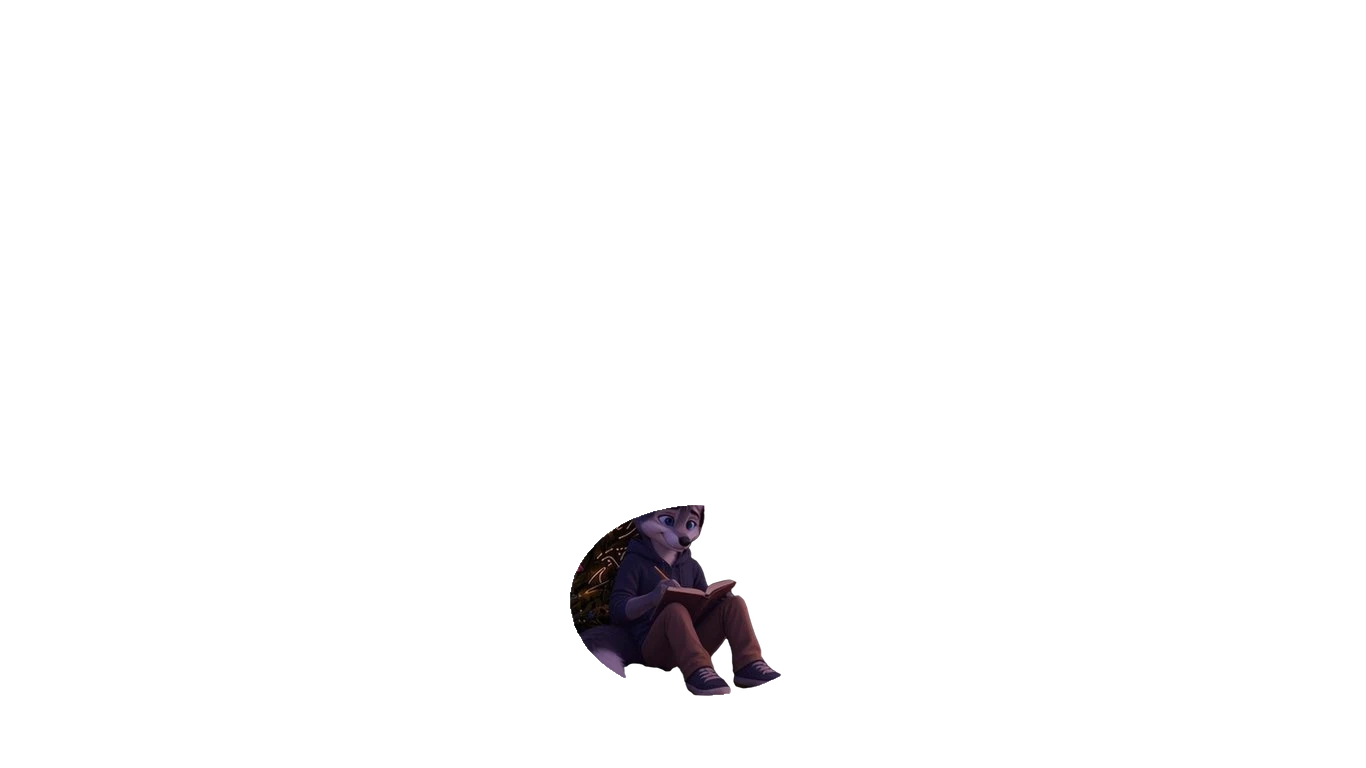
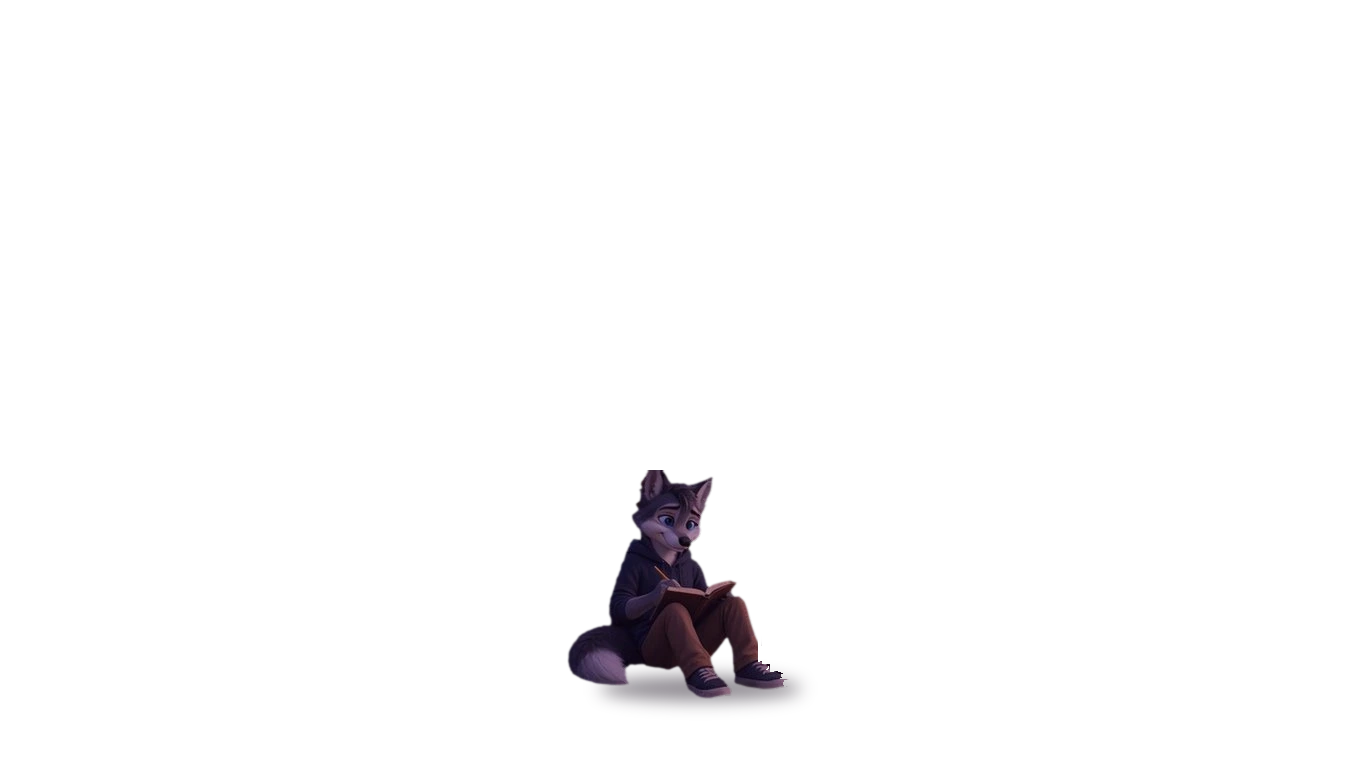
A.1 season mode: clean Astra cutout (rembg + defringe, soft contact shadow, lit to plate) and clean lantern cutouts per time of day; cache-bust

Changed region(s): [[0.3997, 0.5938, 0.5842, 0.9375], [0.5227, 0.75, 0.5534, 0.7812]]

diff --git a/public/demo/proto/proto.js b/public/demo/proto/proto.js
@@ -16,7 +16,7 @@
   else if (q.has("proto") || q.has("p")) { s.on = true; put(s); }
   if (s.on === false) return;
 
-  var css = document.createElement("link"); css.rel = "stylesheet"; css.href = base + "proto.css?v=17"; document.head.appendChild(css);
+  var css = document.createElement("link"); css.rel = "stylesheet"; css.href = base + "proto.css?v=18"; document.head.appendChild(css);
   root.classList.add("pa", "pa-" + PAGE);
 
   var D = {
@@ -359,9 +359,10 @@
       var key = on ? t : "base", se = s.season !== "summer" ? s.season : "";
       /* painted season plates (sunset light): tighter lantern + Astra cutouts sit on top; other times get a CSS grade */
       var bg = document.getElementById("sceneBg"); if (bg) bg.src = se ? "plates/seasonplate-" + se + ".jpg?v=1" : "plates/" + key + ".jpg";
-      var lc = document.getElementById("lanCuts"); if (lc) lc.src = "plates/" + (se ? "season-" : "") + "lanterns-" + key + ".webp" + (se ? "?v=1" : "");
+      var lc = document.getElementById("lanCuts"); if (lc) lc.src = "plates/" + (se ? "season-" : "") + "lanterns-" + key + ".webp" + (se ? "?v=2" : "");
       var ac = document.getElementById("astraCut"); if (ac) { ac.src = "plates/astra-" + key + ".webp"; ac.style.visibility = se ? "hidden" : ""; }
-      var sc = document.getElementById("signCut"); if (sc) sc.src = se ? "plates/season-astra-" + key + ".webp?v=1" : "plates/sign-" + key + ".webp";
+      var sc = document.getElementById("signCut"); if (sc) sc.src = se ? "plates/season-astra-" + key + ".webp?v=2" : "plates/sign-" + key + ".webp";
+      root.setAttribute("data-pa-sea", se ? "on" : "off");
       root.setAttribute("data-pa-sgrade", se && t !== "cur" && t !== "dusk" ? t : "none");
       root.classList.remove("pa-tod-on");
       return;

diff --git a/public/demo/proto/proto.css b/public/demo/proto/proto.css
@@ -657,3 +657,9 @@ html[data-p-gohide=on].pa-picked :is(.hop,#act .go){animation:paIn .35s ease-out
 /* calm preview: what reduced-motion users see */
 html[data-p-calm=on] *,html[data-p-calm=on] *::before,html[data-p-calm=on] *::after{animation:none !important;transition:none !important}
 html[data-p-calm=on] .ambient-fx{visibility:hidden}
+/* A.1 season mode: clean Astra cutout lit to match the bright painted plates */
+html.pa-a1[data-pa-sea=on] #signCut{filter:brightness(1.32) saturate(1.12) contrast(1.04)}
+html.pa-a1[data-pa-sea=on]:is([data-p-tod=day],[data-p-tod=sunrise]) #signCut{filter:brightness(1.08) saturate(1.05)}
+html.pa-a1[data-pa-sea=on][data-p-tod=night] #signCut{filter:brightness(1.05)}
+html.pa-a1[data-pa-sea=on] #lanCuts{filter:brightness(1.12) saturate(1.08)}
+html.pa-a1[data-pa-sea=on][data-p-tod=night] #lanCuts{filter:none}

diff --git a/public/dashboard-a1/index.html b/public/dashboard-a1/index.html
@@ -38,5 +38,5 @@
 })();
 </script>
 <script src="../demo/ambient.js?v=4" data-preset="a1"></script>
-<script src="../demo/worlds-catalog.js"></script><script src="../demo/proto/proto.js?v=14" data-page="a1"></script>
+<script src="../demo/worlds-catalog.js"></script><script src="../demo/proto/proto.js?v=15" data-page="a1"></script>
 </body></html>

diff --git a/public/dashboard-d/index.html b/public/dashboard-d/index.html
@@ -230,6 +230,6 @@
 })();
 </script>
 <script src="../demo/ambient.js?v=5" data-preset="d"></script>
-<script src="../demo/proto/proto.js?v=13" data-page="d"></script>
+<script src="../demo/proto/proto.js?v=14" data-page="d"></script>
 </body>
 </html>
